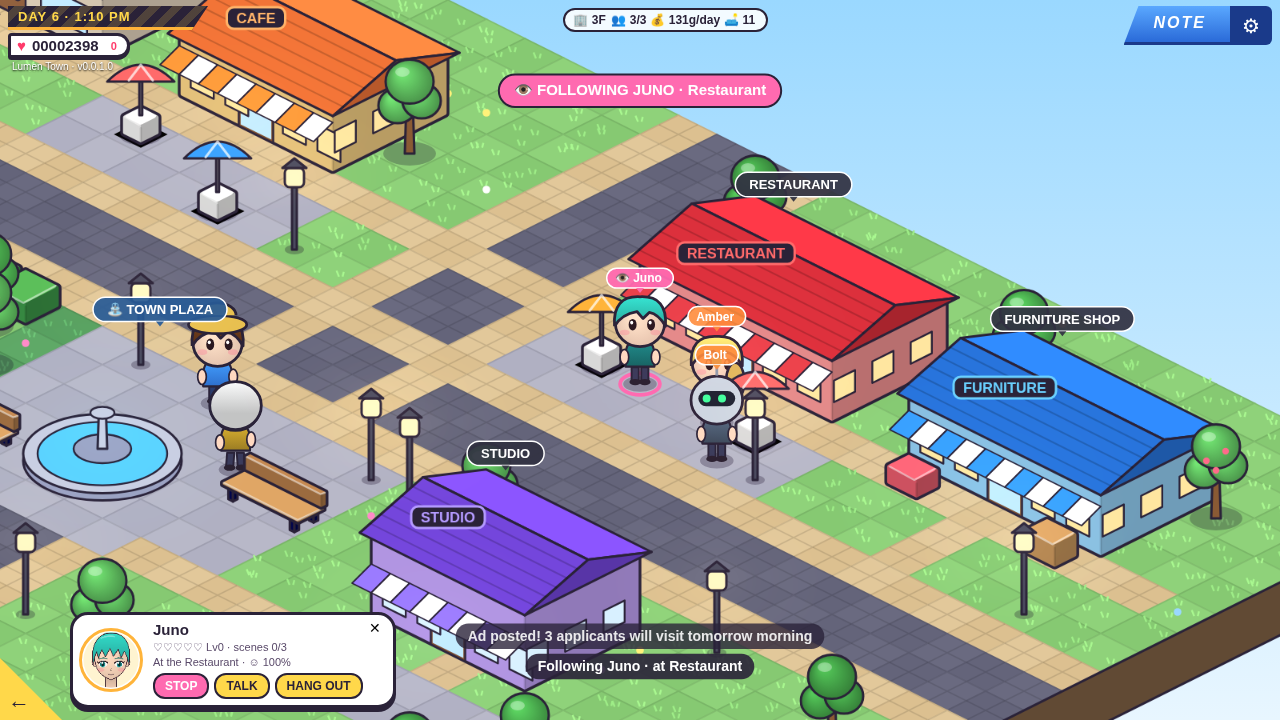
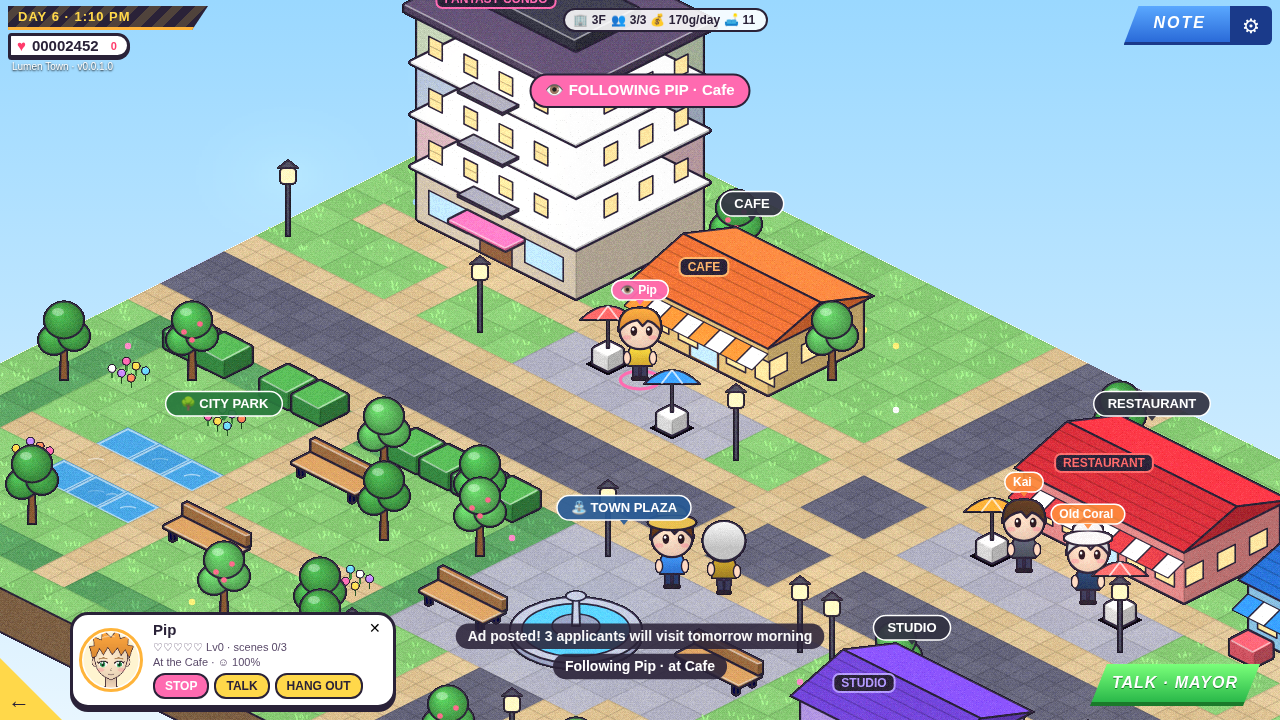
v0.0.1.1: pixel-art pipeline (native low-res buffer, dither/posterize/sel-out), thin coloured interior walls, pixelized chibis, compare screenshot

diff --git a/game.js b/game.js
@@ -1,7 +1,8 @@
 'use strict';
+let ctx=null;const PB=document.createElement('canvas'),PBC=PB.getContext('2d');let PX=1;
 // Fantasy Town v0.0.0.8 — small-town condo life sim (family-friendly)
-const VERSION='v0.0.1.0',SAVE='fantasytown_save_v9';
-const cv=document.getElementById('c'),ctx=cv.getContext('2d'),menuEl=document.getElementById('menu');
+const VERSION='v0.0.1.1',SAVE='fantasytown_save_v9';
+const cv=document.getElementById('c'),mainCtx=cv.getContext('2d'),menuEl=document.getElementById('menu');
 const Q=new URLSearchParams(location.search),$=id=>document.getElementById(id);
 const G=0,ROAD=1,WATER=2,CONC=5,PATH=14,DARKG=15,FL1=20,FL2=21,FL3=22;
 const L=(t,e='smile')=>({t,e});
@@ -81,7 +82,7 @@ const LAY={
  office:{cols:14,rows:10,exit:[7,9],spawn:[7,8],home:[7,7],zones:[['bedroom',0,0,9,5],['bath',10,0,4,5],['lobby',0,6,14,4]],hw:[5,[3,4,11]],vw:[[9,0,4]],
   wins:[['y',2,5.5,'bedroom'],['y',11,13,'bath'],['x',6.6,9,'lobby']]}};
 function zoneOf(L,x,y){if(y==L.hw[0])return L.hw[1].includes(x)?'door':'wall';for(const [cx,y0,y1] of L.vw)if(x==cx&&y>=y0&&y<=y1)return'wall';for(const [z,zx,zy,w,h] of L.zones)if(x>=zx&&y>=zy&&x<zx+w&&y<zy+h)return z;return'wall';}
-OBJ.iwall={w:1,d:1,h:20,draw(c,v){box(c,0,0,0,1,1,14,'#f4ece4',{top:'#ffffff'});faceQ(c,0,0,0,1,1,'L',0,1,0,2.5,'#c8bcb0',null);faceQ(c,0,0,0,1,1,'R',0,1,0,2.5,'#b8aca0',null);}};
+const ZI=['kitchen','bedroom','bath','living','lobby'];OBJ.iwall={w:1,d:1,h:40,draw(c,v){const vert=v>=10,col=ZCOL[ZI[v%10]]||'#ff8a7a',o={left:shade(col,.95),right:shade(col,.78),top:'#4a3a4a',r:0};if(vert)box(c,.38,0,0,.24,1,30,col,o);else box(c,0,.38,0,1,.24,30,col,o);if(vert)box(c,.33,0,30,.34,1,2,'#ffffff',{r:0});else box(c,0,.33,30,1,.34,2,'#ffffff',{r:0});if(vert)faceQ(c,.38,0,0,.24,1,'R',0,1,0,4,'#ffffff',null);else faceQ(c,0,.38,0,1,.24,'L',0,1,0,4,'#ffffff',null);}};
 const REQS=['toilet','bed','stove','fridge'];
 function unitHas(id){const R=S.rooms[id],h={};(R?R.furn:[]).forEach(f=>{const F=FURN[f.k];if(F.req)h[F.req]=1;if(F.kit)h[F.kit]=1;});return h;}
 function missing(id){const h=unitHas(id);return REQS.filter(r=>!h[r]);}
@@ -90,7 +91,7 @@ const KITS={kitchen:[['stove','Stove'],['fridge','Fridge'],['sink','Sink'],['cou
 function roomsDone(id){const h=unitHas(id);return Object.entries(KITS).map(([z,L])=>[z,L.filter(([k])=>h[k]).length,L.length]);}
 function homeSpot(id){const a=area&&area.room==id?area:roomArea(id),L=LAY[S.rooms[id].lay];const q=[L.home];const seen=new Set();while(q.length){const [x,y]=q.shift(),k=x+','+y;if(seen.has(k))continue;seen.add(k);if(x<0||y<0||x>=a.cols||y>=a.rows)continue;if(!a.solid[y][x]&&!(x==L.exit[0]&&y==L.exit[1])&&zoneOf(L,x,y)!='door')return[x+.5,y+.5];[[1,0],[-1,0],[0,1],[0,-1]].forEach(([i,j])=>q.push([x+i,y+j]));}return L.home;}
 function roomArea(id){const R=S.rooms[id],L=LAY[R.lay];const tn=id=='office'?null:S.condo.tenants[+id.slice(1)-1];const a={id:'room:'+id,room:id,lay:L,name:id=='office'?'Manager Office':'Floor '+id.slice(1)+' · '+(tn||'Vacant'),cols:L.cols,rows:L.rows,ground:24,tile:[],solid:[],objs:[],npcs:[]};
- layout(a);for(let y=0;y<a.rows;y++)for(let x=0;x<a.cols;x++){const z=zoneOf(L,x,y);a.tile[y][x]=ZFLOOR[z]||24;if(z=='wall'){a.solid[y][x]=1;a.objs.push({k:'iwall',x,y,w:1,d:1,v:0});}}
+ layout(a);for(let y=0;y<a.rows;y++)for(let x=0;x<a.cols;x++){const z=zoneOf(L,x,y);a.tile[y][x]=ZFLOOR[z]||24;if(z=='wall'){a.solid[y][x]=1;const vert=y!=L.hw[0];const fz=vert?zoneOf(L,x+1,y):zoneOf(L,x,y+1);a.objs.push({k:'iwall',x,y,w:1,d:1,v:(vert?10:0)+Math.max(0,ZI.indexOf(fz=='wall'||fz=='door'?'living':fz))});}}
  R.furn.forEach(f=>OB(a,f.k,f.x,f.y,f.v||0,true));a.exit=L.exit;a.spawn=L.spawn;return a;}
 function load(){try{const j=JSON.parse(localStorage.getItem(SAVE));if(j&&j.v==9){S=Object.assign(newState(),j);return 1;}}catch(e){}S=newState();
  if(['v8','v7','v6','v5'].some(v=>localStorage.getItem('fantasytown_save_'+v))){S.gold+=150;S.oldSave=1;}return 0;}
@@ -113,7 +114,7 @@ function groundOf(a){if(a.gcv)return a.gcv;const W=(a.cols+a.rows)*TW/2,H=(a.col
   poly(g,[isoP(0,a.rows),isoP(a.cols,a.rows),isoP(a.cols,a.rows,-6),isoP(0,a.rows,-6)],'#c8b8a8');poly(g,[isoP(a.cols,0),isoP(a.cols,a.rows),isoP(a.cols,a.rows,-6),isoP(a.cols,0,-6)],'#a89888');}
  else{for(let y=0;y<a.rows;y++)for(let x=0;x<a.cols;x++){const nb=[[1,0],[-1,0],[0,1],[0,-1]].map(([i,j])=>(a.tile[y+j]||[])[x+i]??2);drawGroundTile(g,a.tile[y][x],x,y,r,nb);}
   const ec='#8a6a4a';poly(g,[isoP(0,a.rows),isoP(a.cols,a.rows),isoP(a.cols,a.rows,-22),isoP(0,a.rows,-22)],shade(ec,.9));poly(g,[isoP(a.cols,0),isoP(a.cols,a.rows),isoP(a.cols,a.rows,-22),isoP(a.cols,0,-22)],shade(ec,.7));}
- a.gox=ox;a.goy=top;return a.gcv=c;}
+ textureGround(c);a.gox=ox;a.goy=top;return a.gcv=c;}
 function goArea(id,pos){area=id.startsWith('room:')?roomArea(id.slice(5)):TOWN;if(!area.room)area.gcv=area.gcv||null;
  S.area=id;const p=pos||area.spawn||[4,5];S.px=(p[0]+.5)*16;S.py=(p[1]+.5)*16;path=null;area.npcs=makeNpcs(area);banner={t:area.name,l:2.2};if(!area.room)decor=false;camSnap=1;}
 function refresh(){const keep=[S.px,S.py];if(area.room)area=roomArea(area.room);area.gcv=null;area.npcs=makeNpcs(area);S.px=keep[0];S.py=keep[1];}
@@ -308,8 +309,8 @@ window.sleep=(passed)=>{closeMenu();S.day++;S.min=7*60;const c=S.condo,rent=rent
  follow=null;for(const n in TN)TN[n].goal=null;syncTenants(true);goArea('room:office',[3,4]);fade=1.2;save(1);toast(passed?'You dozed off... Day '+S.day:'Good morning! Day '+S.day);msg.forEach(toast);};
 // ---------- geometry / pathing ----------
 const ptx=()=>S.px/16,pty=()=>S.py/16;
-let cam={x:0,y:0},Z=2;
-function screenToTile(sx,sy){const wx=(sx-cv.width/2)/Z+cam.x,wy=(sy-cv.height/2)/Z+cam.y;return[Math.floor((wx/16+wy/8)/2),Math.floor((wy/8-wx/16)/2)];}
+let cam={x:0,y:0},camS={x:0,y:0},Z=2;
+function screenToTile(sx,sy){const BW=Math.ceil(cv.width/PX),BH=Math.ceil(cv.height/PX),wx=(sx/PX-BW/2)/2+camS.x,wy=(sy/PX-BH/2)/2+camS.y;return[Math.floor((wx/16+wy/8)/2),Math.floor((wy/8-wx/16)/2)];}
 function walkableOn(a,x,y){return!(x<0||y<0||x>=a.cols||y>=a.rows||a.solid[y][x]);}
 const walkable=(x,y)=>walkableOn(area,x,y);
 function bfsOn(a,sx,sy,goal){const key=(x,y)=>y*999+x,prev=new Map([[key(sx,sy),null]]),q=[[sx,sy]];while(q.length){const [x,y]=q.shift();if(goal(x,y)){const p=[];let c=[x,y];while(c){p.unshift(c);c=prev.get(key(c[0],c[1]));}return p;}
@@ -373,32 +374,34 @@ let tagRects=[],hotRects=[],bOff=0,sc=1;
 function resize(){cv.width=innerWidth;cv.height=innerHeight;sc=Math.max(.72,Math.min(1.4,Math.min(cv.width/1100,cv.height/560)));$('rot').style.display=isTouch&&innerHeight>innerWidth?'flex':'none';}
 addEventListener('resize',resize);resize();
 function lightList(a){const Ls=[];a.objs.forEach(o=>{const d=OBJ[o.k]||FURN[o.k];(d&&d.light||[]).forEach(([x,y,z,r,c])=>Ls.push([o.x+x,o.y+y,z,r,c]));if(o.k=='condo')for(let f=0;f<=S.condo.floors;f++)Ls.push([o.x+2.5,o.y+4,14+f*26,44,'#ffd88a']);});return Ls;}
-function W2S(x,y,z){const [ix,iy]=isoP(x,y,z);return[cv.width/2+(ix-cam.x)*Z,cv.height/2+(iy-cam.y)*Z];}
+function W2S(x,y,z){const [ix,iy]=isoP(x,y,z);const BW=Math.ceil(cv.width/PX),BH=Math.ceil(cv.height/PX);return[(BW/2+(ix-camS.x)*2)*PX,(BH/2+(iy-camS.y)*2)*PX];}
 const PLOOK={body:'#3a8aff',hair:'#6a3a1a',style:'short',hat:'#e8c050',pants:'#2a3a6a'};
 function tenantAtScreen(sx,sy){let best=null,bd=1e9;tenantsHere().forEach(t=>{const [x,y]=W2S(t.px,t.py,0),dx=sx-x,dy=sy-y;if(Math.abs(dx)<12*Z&&dy<5*Z&&dy>-34*Z){const d=Math.abs(dx)+Math.abs(dy+14*Z);if(d<bd){bd=d;best=t;}}});return best;}
 function drawScene(t,night){const a=area,W=cv.width,H=cv.height;
  const fit=a.room?Math.min(W/((a.cols+a.rows)*TW/2+40),(H-90)/((a.cols+a.rows)*TH/2+66)):0;Z=a.room?Math.max(1.15,Math.min(2.4,fit)):Math.max(1.5,Math.min(3.2,H/(isTouch?220:300)));
  let fx=ptx(),fy=pty();const ft=follow&&TN[follow];if(ft&&!a.room&&!ft.inRoom){fx=ft.px;fy=ft.py;}
- const [px,py]=isoP(fx,fy);let tx2=px,ty2=py-10;if(a.room&&fit>=1.15){const [mx,my]=isoP(a.cols/2,a.rows/2);tx2=mx;ty2=my-26;}if(window.ZOOM){Z=window.ZOOM;const [mx,my]=isoP(...window.CAMT);tx2=mx;ty2=my;camSnap=1;}
- if(camSnap){cam.x=tx2;cam.y=ty2;camSnap=0;}else{cam.x+=(tx2-cam.x)*.12;cam.y+=(ty2-cam.y)*.12;}
+ const [px,py]=isoP(fx,fy);let tx2=px,ty2=py-10;if(a.room&&fit>=1.15){const [mx,my]=isoP(a.cols/2,a.rows/2);tx2=mx;ty2=my-26;}PX=Math.max(1,Math.round(Z/2));if(window.ZOOM){Z=window.ZOOM;PX=Math.max(1,Math.round(Z/2));const [mx,my]=isoP(...window.CAMT);tx2=mx;ty2=my;camSnap=1;}
+ Z=2*PX;if(camSnap){cam.x=tx2;cam.y=ty2;camSnap=0;}else{cam.x+=(tx2-cam.x)*.12;cam.y+=(ty2-cam.y)*.12;}
+ const BW=Math.ceil(W/PX),BH=Math.ceil(H/PX);if(PB.width!=BW||PB.height!=BH){PB.width=BW;PB.height=BH;}ctx=PBC;const TX=Math.round(BW/2-cam.x*2),TY=Math.round(BH/2-cam.y*2);
  const sky=ctx.createLinearGradient(0,0,0,H);if(a.room){sky.addColorStop(0,'#3a2c4a');sky.addColorStop(1,'#6a4a6a');}else{sky.addColorStop(0,night>.5?'#141432':'#9ad8ff');sky.addColorStop(1,night>.5?'#2a1a4a':'#e8f6ff');}
  ctx.setTransform(1,0,0,1,0,0);ctx.fillStyle=sky;ctx.fillRect(0,0,W,H);
  if(a.room){ctx.fillStyle='rgba(255,255,255,.05)';for(let i=-H;i<W;i+=40){ctx.beginPath();ctx.moveTo(i,H);ctx.lineTo(i+H,0);ctx.lineTo(i+H+16,0);ctx.lineTo(i+16,H);ctx.fill();}}
- ctx.setTransform(Z,0,0,Z,W/2-cam.x*Z,H/2-cam.y*Z);ctx.imageSmoothingEnabled=true;ctx.imageSmoothingQuality='high';
+ ctx.setTransform(2,0,0,2,TX,TY);ctx.imageSmoothingEnabled=false;
  const gc=groundOf(a);ctx.drawImage(gc,-a.gox,-a.goy,gc.width/RS,gc.height/RS);
  if(!a.room)for(let i=0;i<9;i++){const x=4+i%3,y=17+Math.floor(i/3),[cx,cy]=isoP(x+.5,y+.5);ctx.strokeStyle=`rgba(255,255,255,${.25+.3*Math.sin(t*2+i)})`;ctx.lineWidth=.8;ctx.beginPath();ctx.moveTo(cx-4,cy);ctx.quadraticCurveTo(cx,cy-1.5,cx+4,cy);ctx.stroke();}
  const Dr=[];a.objs.forEach(o=>{const F=FURN[o.k];Dr.push({k:o.x+o.w/2+o.y+o.d/2-(F&&F.flat?50:F&&F.wall?45:0),f:()=>{if(o.k=='condo')drawSprite(ctx,condoSprite(S.condo.floors,S.condo.building),o.x,o.y);else drawSprite(ctx,spriteFor(o.k,o.v||0),o.x,o.y);}});});
- a.npcs.forEach(n=>Dr.push({k:n.px/16+n.py/16,f:()=>{const [x,y]=isoP(n.px/16,n.py/16);chibi(ctx,x,y,{...n.look,face:n.face},t+n.px,!!(n.dx||n.dy));}}));
- tenantsHere().forEach(tn=>Dr.push({k:tn.px+tn.py,f:()=>{const [x,y]=isoP(tn.px,tn.py);if(selT==tn.n){ell(ctx,x,y,9+Math.sin(t*5),4.5,null,follow==tn.n?'#ff6ab0':'#ffd84a',1.6);}const T=TN[tn.n];chibi(ctx,x,y,{...CHARS[tn.n].look,face:T&&T.path?T.face:'down'},t*1.3+tn.px,!!(T&&T.path));}}));
+ a.npcs.forEach(n=>Dr.push({k:n.px/16+n.py/16,f:()=>{const [x,y]=isoP(n.px/16,n.py/16);chibiPix(ctx,x,y,{...n.look,face:n.face},t+n.px,!!(n.dx||n.dy));}}));
+ tenantsHere().forEach(tn=>Dr.push({k:tn.px+tn.py,f:()=>{const [x,y]=isoP(tn.px,tn.py);if(selT==tn.n){ell(ctx,x,y,9+Math.sin(t*5),4.5,null,follow==tn.n?'#ff6ab0':'#ffd84a',1.6);}const T=TN[tn.n];chibiPix(ctx,x,y,{...CHARS[tn.n].look,face:T&&T.path?T.face:'down'},t*1.3+tn.px,!!(T&&T.path));}}));
  const pface=Math.abs(S.fx-S.fy)>Math.abs(S.fx+S.fy)?(S.fx>S.fy?'right':'left'):(S.fx+S.fy>0?'down':'up');
- Dr.push({k:ptx()+pty(),f:()=>{const [x,y]=isoP(ptx(),pty());chibi(ctx,x,y,{...PLOOK,face:pface},walkT,moving);}});
+ Dr.push({k:ptx()+pty(),f:()=>{const [x,y]=isoP(ptx(),pty());chibiPix(ctx,x,y,{...PLOOK,face:pface},walkT,moving);}});
  Dr.sort((p,q)=>p.k-q.k).forEach(d=>d.f());
  parts.forEach(p=>{const [x,y]=isoP(p.x,p.y,p.z);ell(ctx,x,y,1.3,1.3,p.c,null);});
  if(path&&path.length){const [gx,gy]=path[path.length-1],[cx,cy]=isoP(gx+.5,gy+.5);ell(ctx,cx,cy,6+Math.sin(t*6),3+Math.sin(t*6)*.5,null,'#ffffff',1.2);}
  if(decor){const g=furnGhost(),ok=!canFurn(g)&&(hold||S.finv[g.k]>0);ctx.globalAlpha=.5;poly(ctx,[isoP(g.x,g.y),isoP(g.x+g.w,g.y),isoP(g.x+g.w,g.y+g.d),isoP(g.x,g.y+g.d)],ok?'#3dff9a':'#ff5070','#fff',1.2);ctx.globalAlpha=.75;drawSprite(ctx,spriteFor(g.k),g.x,g.y);ctx.globalAlpha=1;}
  const nf=a.room?night*.15:night;ctx.setTransform(1,0,0,1,0,0);if(nf>0){ctx.fillStyle=`rgba(24,16,70,${.5*nf})`;ctx.fillRect(0,0,W,H);}
- ctx.setTransform(Z,0,0,Z,W/2-cam.x*Z,H/2-cam.y*Z);ctx.globalCompositeOperation='lighter';const ga=a.room?.25+.3*night:.06+.9*night;
+ ctx.setTransform(2,0,0,2,TX,TY);ctx.globalCompositeOperation='lighter';const ga=a.room?.25+.3*night:.06+.9*night;
  lightList(a).forEach(([x,y,z,r,c])=>{const [sx,sy]=isoP(x,y,z);ctx.globalAlpha=ga*.85;ctx.drawImage(glowS(c),sx-r,sy-r*.75,r*2,r*1.5);});ctx.globalAlpha=1;ctx.globalCompositeOperation='source-over';
+ ctx=mainCtx;ctx.setTransform(1,0,0,1,0,0);ctx.imageSmoothingEnabled=false;ctx.drawImage(PB,0,0,BW*PX,BH*PX);camS.x=(BW/2-TX)/2;camS.y=(BH/2-TY)/2;
  tagRects=[];ctx.setTransform(1,0,0,1,0,0);
  const tag=(x,y,z,label,stars,tx,ty,col='rgba(50,50,66,.93)',small)=>{const [sx,sy]=W2S(x,y,z);ctx.font=`bold ${Math.round((small?10:11)*sc)}px sans-serif`;const w=ctx.measureText(label).width+(small?14:24)*sc,h=(small?17:21)*sc;ctx.beginPath();ctx.roundRect(sx-w/2,sy-h,w,h,h/2);ctx.fillStyle=col;ctx.fill();ctx.strokeStyle='#fff';ctx.lineWidth=1.5;ctx.stroke();
   ctx.fillStyle='#fff';ctx.textAlign='center';ctx.textBaseline='middle';ctx.fillText(label,sx,sy-h/2+.5);ctx.beginPath();ctx.moveTo(sx-4,sy);ctx.lineTo(sx,sy+5);ctx.lineTo(sx+4,sy);ctx.fillStyle=col;ctx.fill();
@@ -459,7 +462,7 @@ let lastCard='';function updateButtons(){const modal=showMap||showCondo||showApp
  $('tcName').textContent=t.n;$('tcInfo').innerHTML=`${'♥'.repeat(frLv(t.n))}${'♡'.repeat(5-frLv(t.n))} Lv${frLv(t.n)} · scenes ${f.scene}/3<br>${loc} · ☺ ${happiness(t.n)}%`;
  $('tFollow').textContent=follow==t.n?'STOP':'FOLLOW';$('tHang').classList.toggle('dim',f.hang==S.day);}
 let last=performance.now(),T0=0;
-function frame(now){const dt=Math.min(.05,(now-last)/1000);last=now;T0+=dt;update(dt);const night=nightF();
+function frame(now){ctx=mainCtx;const dt=Math.min(.05,(now-last)/1000);last=now;T0+=dt;update(dt);const night=nightF();
  if(showApps)drawApps(T0);else if(showMap)drawMap(T0);else if(showCondo)drawCondo(T0);else{drawScene(T0,night);drawHUD(T0);}
  updateTop();updateButtons();requestAnimationFrame(frame);}
 syncTenants(true);

diff --git a/iso.js b/iso.js
@@ -1,6 +1,6 @@
 'use strict';
 // Isometric renderer helpers: 2:1 diamonds, outlined shaded boxes, cached sprites
-const TW=32,TH=16,RS=3,OLC='#2a2238';
+const TW=32,TH=16,RS=2,OLC='#2a2238';
 const isoP=(x,y,z=0)=>[(x-y)*TW/2,(x+y)*TH/2-z];
 function poly(c,pts,fill,ol=OLC,lw=1){c.beginPath();pts.forEach((p,i)=>i?c.lineTo(p[0],p[1]):c.moveTo(p[0],p[1]));c.closePath();if(fill){c.fillStyle=fill;c.fill();}if(ol){c.lineWidth=lw;c.strokeStyle=ol;c.stroke();}}
 // rounded polygon path (arcTo corners)
@@ -33,7 +33,7 @@ function shadowE(c,x,y,rx,ry){c.beginPath();c.ellipse(x,y,rx,ry,0,0,7);c.fillSty
 const SPR={};
 function sprite(key,w,d,hpx,fn){if(SPR[key])return SPR[key];const W=(w+d)*TW/2+24,H=(w+d)*TH/2+hpx+24,ox=d*TW/2+12,oy=hpx+12;
  const cv=document.createElement('canvas');cv.width=Math.ceil(W*RS);cv.height=Math.ceil(H*RS);const c=cv.getContext('2d');c.scale(RS,RS);c.translate(ox,oy);c.lineJoin='round';c.lineCap='round';fn(c);
- return SPR[key]={cv,ox,oy};}
+ pixelize(cv);return SPR[key]={cv,ox,oy};}
 function drawSprite(g,s,x,y){const [px,py]=isoP(x,y);g.drawImage(s.cv,px-s.ox,py-s.oy,s.cv.width/RS,s.cv.height/RS);}
 // ---- ground tile painter ----
 const GCOL={23:['#ffffff','#f2f4f8'],26:['#e8f6ff','#d8eefa'],27:['#f6f0ea','#ece4dc'],24:['#e2a868','#d89e5e'],25:['#c8c0d8','#c0b8d0'],0:['#8fd27a','#86c972'],15:['#5fa866','#58a060'],1:['#6a6a80','#64647a'],2:['#4aa8e8','#45a0e0'],3:['#f2dca0','#ecd496'],4:['#3a2c7a','#352872'],5:['#b8b8c8','#b0b0c2'],6:['#9a6a44','#94643f'],7:['#c8945a','#c08c52'],8:['#c89a72','#c0926a'],9:['#6ad8ff','#60d0f8'],10:['#d8d8e2','#c8c8d6'],12:['#5a5670','#545068'],13:['#5a5670','#545068'],14:['#e2c89a','#dcc090'],20:['#f0e6d6','#e6dccb'],21:['#c8a8e0','#bea0d8'],22:['#b9d6f0','#b0cceb']};
@@ -76,3 +76,26 @@ function chibi(c,x,y,o,t,walk){const s=1;const bob=walk?Math.abs(Math.sin(t*10))
  if(o.hat){c.beginPath();c.ellipse(x,hy-6,9.5,3,0,0,7);c.fillStyle=o.hat;c.fill();c.stroke();c.beginPath();c.ellipse(x,hy-9,6,4,0,Math.PI,0);c.fillStyle=o.hat;c.fill();c.stroke();}c.restore();}
 // ---- glow sprite ----
 const _glow={};function glowS(col){if(_glow[col])return _glow[col];const g=document.createElement('canvas');g.width=g.height=64;const c=g.getContext('2d');const gr=c.createRadialGradient(32,32,0,32,32,32);gr.addColorStop(0,col+'bb');gr.addColorStop(.4,col+'44');gr.addColorStop(1,col+'00');c.fillStyle=gr;c.fillRect(0,0,64,64);return _glow[col]=g;}
+
+// ---- pixel-art post-process: hard alpha, posterized tones, ordered dither + grain, selective 1px outline ----
+const BAYER=[0,8,2,10,12,4,14,6,3,11,1,9,15,7,13,5];
+function hash2(x,y){let h=(x*374761393+y*668265263)|0;h=(h^(h>>>13))*1274126177;return(h^(h>>>16))&255;}
+function pixelize(cv,o={}){const g=cv.getContext('2d'),W=cv.width,H=cv.height;if(!W||!H)return;const im=g.getImageData(0,0,W,H),d=im.data,A=new Uint8Array(W*H);
+ const grain=o.grain??7,dith=o.dither??5,step=o.step??14;
+ for(let i=0;i<W*H;i++)A[i]=d[i*4+3]>100?1:0;
+ for(let y=0;y<H;y++)for(let x=0;x<W;x++){const i=y*W+x,k=i*4;if(!A[i]){d[k+3]=0;continue;}
+  const a=d[k+3]/255;let r=d[k],gg=d[k+1],b=d[k+2];if(a<1&&!o.keepA){r=r/a;gg=gg/a;b=b/a;}
+  const n=((hash2(x,y)&15)-7.5)/7.5*grain+(BAYER[(y&3)*4+(x&3)]-7.5)/7.5*dith;
+  r=Math.round((r+n)/step)*step;gg=Math.round((gg+n)/step)*step;b=Math.round((b+n)/step)*step;
+  const edge=o.noOutline?0:(x==0||!A[i-1])+(x==W-1||!A[i+1])+(y==0||!A[i-W])+(y==H-1||!A[i+W]);
+  if(edge){const lum=(r*.3+gg*.59+b*.11);const f=lum<70?.7:.42;r*=f;gg*=f;b*=f;r=Math.max(r,18);gg=Math.max(gg,12);b=Math.max(b,30);}
+  else if(!o.noRim&&y>0&&!A[i-W]&&false){}
+  else if(!o.noRim&&y>1&&A[i-W]&&!A[i-2*W]){r=r*1.12+10;gg=gg*1.12+10;b=b*1.12+10;}
+  d[k]=Math.min(255,Math.max(0,r));d[k+1]=Math.min(255,Math.max(0,gg));d[k+2]=Math.min(255,Math.max(0,b));d[k+3]=255;}
+ g.putImageData(im,0,0);}
+function textureGround(cv){pixelize(cv,{grain:9,dither:6,step:10,noOutline:1,noRim:1});}
+
+// cached pixelized chibi frames
+const _CH={};function chibiPix(g,x,y,o,t,walk){const fr=walk?Math.floor(t*10/Math.PI*2)%4:Math.floor(t*1.2)%2,key=JSON.stringify(o)+'|'+walk+'|'+fr;let e=_CH[key];
+ if(!e){const cv=document.createElement('canvas');cv.width=40*RS;cv.height=64*RS;const c=cv.getContext('2d');c.scale(RS,RS);const tt=walk?(fr+.5)*Math.PI/20:fr*1.3;chibi(c,20,58,o,tt,walk);pixelize(cv,{grain:4,dither:3,step:12});e=_CH[key]={cv};}
+ g.drawImage(e.cv,Math.round(x-20),Math.round(y-58),40,64);}

diff --git a/index.html b/index.html
@@ -2,7 +2,7 @@
 <html lang="en"><head><meta charset="utf-8">
 <meta name="viewport" content="width=device-width,initial-scale=1,maximum-scale=1,user-scalable=no,viewport-fit=cover">
 <meta name="mobile-web-app-capable" content="yes"><meta name="apple-mobile-web-app-capable" content="yes"><meta name="theme-color" content="#2a2238">
-<title>Fantasy Town v0.0.1.0</title>
+<title>Fantasy Town v0.0.1.1</title>
 <style>
 *{box-sizing:border-box}
 html,body{margin:0;height:100%;background:#2a2238;overflow:hidden;touch-action:none;font-family:"Trebuchet MS",Verdana,sans-serif;color:#2a2238;-webkit-user-select:none;user-select:none}

diff --git a/README.md b/README.md
@@ -1,4 +1,4 @@
-# Fantasy Town v0.0.1.0
+# Fantasy Town v0.0.1.1
 Family-friendly isometric condo-manager life sim set in the small town of Lumen Town. Plain HTML5 canvas, no build step: open index.html.
 
 ## Town
